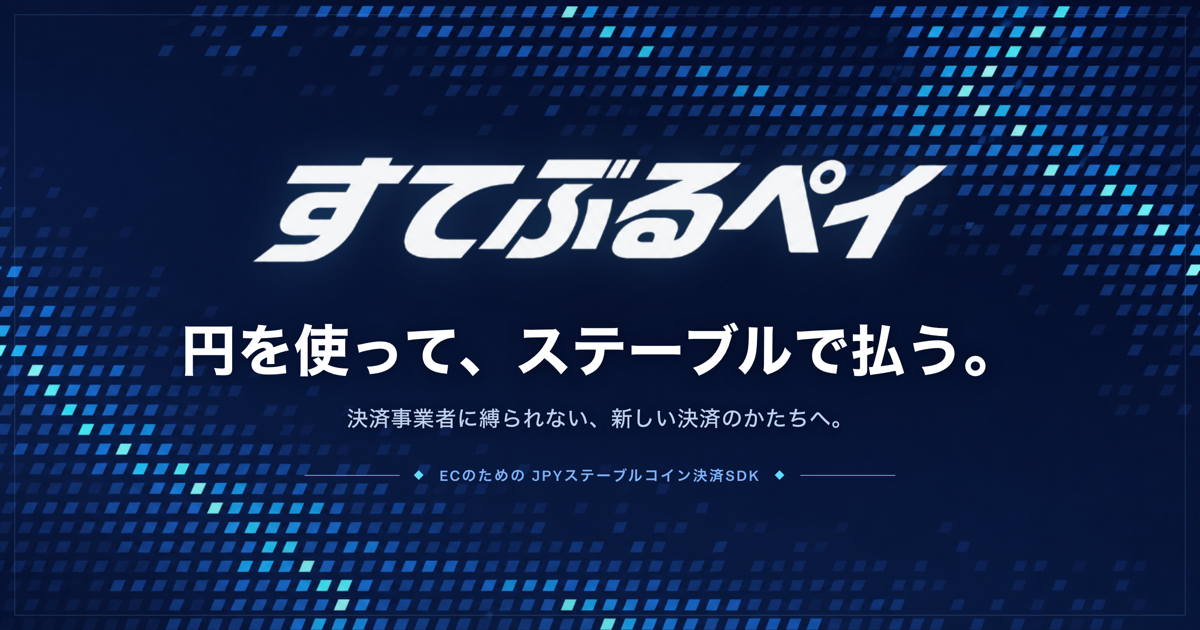
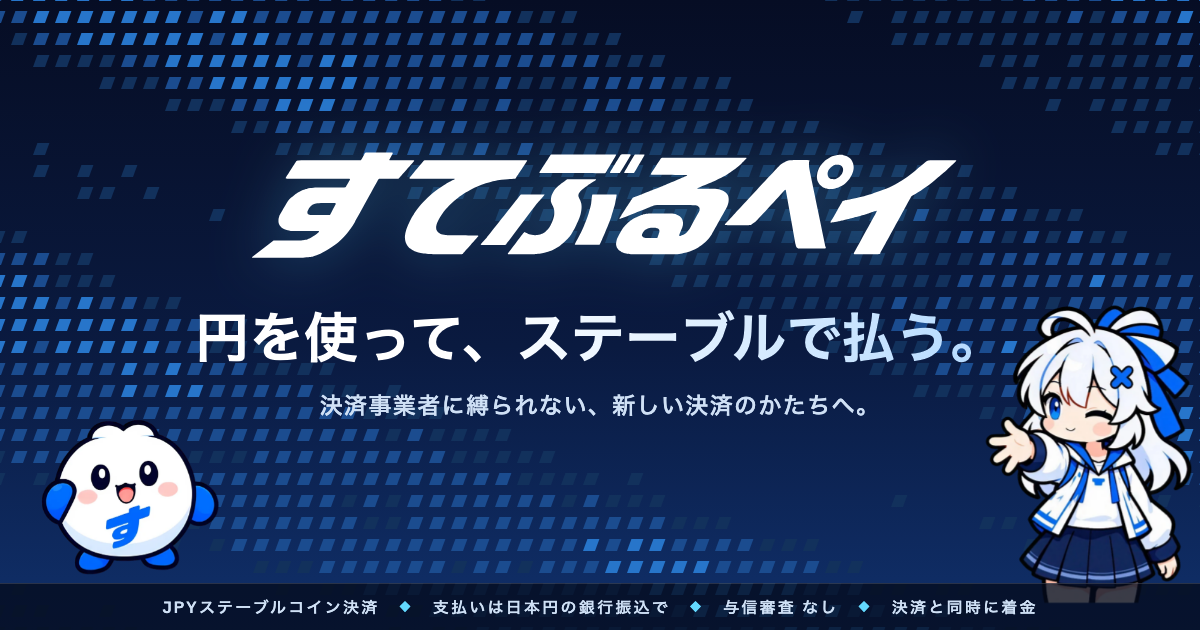
feat: OGP 画像を正のロゴ SVG・すてぶるくん・すてぶるちゃん・ヒーローの模様で作り直し、SDK の文言をなくす
- 元の HTML と素材を scripts/og/ に置き、node scripts/make-og-image.mjs で書き出し直せるようにする
- SNS が前の画像を覚えているので、og:image・twitter:image に ?v=2 を付ける
- どこからも参照していない旧画像 2 枚（SDK の文言入り）を消す

diff --git a/scripts/og/og-image.html b/scripts/og/og-image.html
@@ -1,0 +1,128 @@
+<!doctype html>
+<!--
+  OGP 画像（assets/og-stblpay-generative-1200x630.png）の元。scripts/make-og-image.mjs が 1200×630 で撮る。
+  ブラウザで直接開いても同じ絵が見える。
+  - 背景の模様は LP のヒーロー（assets/lp.js の hero-art）と同じ式を、時刻を止めて 1 枚だけ描く
+  - ロゴは正の SVG（Google Drive の STBLpay_japanese_logo.svg を写したもの）
+  - キャラクターは素材集 stbl-pay-characters の kun/poses/kun_pose_wave と chan/thigh/chan_thigh_reach_wink
+-->
+<html lang="ja">
+<head>
+<meta charset="utf-8" />
+<title>OGP すてぶるペイ</title>
+<style>
+  @font-face {
+    font-family: "Schibsted Grotesk";
+    src: url("../../assets/fonts/schibsted-grotesk-latin-wght.woff2") format("woff2-variations");
+    font-weight: 400 900;
+  }
+  html, body { margin: 0; background: #060d24; }
+  .og {
+    position: relative;
+    width: 1200px;
+    height: 630px;
+    overflow: hidden;
+    background: linear-gradient(180deg, #060d24 0%, #0a1a40 55%, #10306b 100%);
+    font-family: "Schibsted Grotesk", "Hiragino Sans", "Hiragino Kaku Gothic ProN", "Noto Sans JP", sans-serif;
+    color: #fff;
+  }
+  canvas { position: absolute; inset: 0; }
+  .inner {
+    position: absolute;
+    left: 0; right: 0; top: 146px;
+    text-align: center;
+    z-index: 2;
+  }
+  .logo {
+    width: 720px;
+    filter: invert(1) hue-rotate(180deg) brightness(1.12) drop-shadow(0 0 28px rgba(99, 217, 255, 0.28));
+  }
+  h1 {
+    margin: 34px 0 0;
+    font-size: 54px;
+    font-weight: 700;
+    line-height: 1.3;
+    letter-spacing: 0.01em;
+    background: linear-gradient(96deg, #ffffff 40%, #a8d4ff 90%);
+    -webkit-background-clip: text;
+    background-clip: text;
+    -webkit-text-fill-color: transparent;
+  }
+  .sub {
+    margin: 14px 0 0;
+    color: #cfe0f5;
+    font-size: 23px;
+    font-weight: 600;
+    letter-spacing: 0.06em;
+  }
+  .kun, .chan { position: absolute; z-index: 1; }
+  .kun { left: 26px; bottom: 44px; height: 172px; }
+  .chan { right: 6px; bottom: 26px; height: 300px; }
+  .ticker {
+    position: absolute;
+    left: 0; right: 0; bottom: 0;
+    z-index: 3;
+    display: flex;
+    justify-content: center;
+    padding: 11px 0;
+    border-top: 1px solid rgba(255, 255, 255, 0.14);
+    background: rgba(4, 10, 28, 0.78);
+    color: #cfe0f5;
+    font-size: 16px;
+    font-weight: 600;
+    letter-spacing: 0.14em;
+    white-space: nowrap;
+  }
+  .ticker span + span::before {
+    content: "◆";
+    margin: 0 20px;
+    color: #63d9ff;
+    font-size: 11px;
+    vertical-align: 2px;
+  }
+</style>
+</head>
+<body>
+<div class="og" id="og">
+  <canvas id="art" width="1200" height="630"></canvas>
+  <img class="kun" src="kun_pose_wave.webp" alt="" />
+  <img class="chan" src="chan_thigh_reach_wink.webp" alt="" />
+  <div class="inner">
+    <img class="logo" src="logo-suteburu.svg" alt="すてぶるペイ" />
+    <h1>円を使って、ステーブルで払う。</h1>
+    <p class="sub">決済事業者に縛られない、新しい決済のかたちへ。</p>
+  </div>
+  <div class="ticker"><span>JPYステーブルコイン決済</span><span>支払いは日本円の銀行振込で</span><span>与信審査 なし</span><span>決済と同時に着金</span></div>
+</div>
+<script>
+  // assets/lp.js の hero-art と同じ定数・同じ式（バーストとポインターは除く）
+  const W = 1200, H = 630, GRID = 22, CELL_W = 12, CELL_H = 12, SHEAR = 4.4, SLANT = 2.6;
+  const COLORS = ["#12315c", "#1b4c8f", "#2775ca", "#63d9ff"];
+  const T = 3.6; // LP の prefers-reduced-motion と同じ静止フレーム
+  const ctx = document.getElementById("art").getContext("2d");
+  const hash = (c, r) => { const v = Math.sin(c * 127.1 + r * 311.7) * 43758.5453; return v - Math.floor(v); };
+  const cell = new Path2D();
+  cell.moveTo(SHEAR, 0); cell.lineTo(CELL_W + SHEAR, 0); cell.lineTo(CELL_W, CELL_H); cell.lineTo(0, CELL_H); cell.closePath();
+  const cols = Math.ceil(W / GRID) + 2, rows = Math.ceil(H / GRID) + 2;
+  const cx = W * 0.5, cy = H * 0.48, rx = W * 0.4, ry = H * 0.44;
+  for (let r = 0; r < rows; r++) {
+    const y = r * GRID - GRID * 0.5;
+    for (let c = 0; c < cols; c++) {
+      const x = c * GRID - GRID * 0.5;
+      const d = x + (H - y) * SLANT;
+      let v = 0.30 + 0.38 * Math.sin(d * 0.006 + T * 0.9);
+      v += 0.16 * Math.sin(d * 0.016 + T * 1.7);
+      v += 0.10 * Math.sin(T * 1.1 + hash(c, r) * Math.PI * 2);
+      const ex = (x - cx) / rx, ey = (y - cy) / ry, e2 = ex * ex + ey * ey;
+      if (e2 < 1) v *= 0.22 + 0.78 * e2;
+      const q = Math.round(Math.max(0, Math.min(1, v)) * 4);
+      if (q > 0) {
+        ctx.setTransform(1, 0, 0, 1, x, y);
+        ctx.fillStyle = COLORS[q - 1];
+        ctx.fill(cell);
+      }
+    }
+  }
+</script>
+</body>
+</html>

diff --git a/index.html b/index.html
@@ -25,8 +25,8 @@
       content="決済事業者に縛られない、新しい決済のかたちへ。購入者は日本円の銀行振込で、加盟店はカード会社の与信審査に頼らず、ステーブルコインで売上を受け取れます（開発中）。"
     />
     <meta property="og:url" content="https://stbl-pay.com/" />
-    <meta property="og:image" content="https://stbl-pay.com/assets/og-stblpay-generative-1200x630.png" />
-    <meta property="og:image:secure_url" content="https://stbl-pay.com/assets/og-stblpay-generative-1200x630.png" />
+    <meta property="og:image" content="https://stbl-pay.com/assets/og-stblpay-generative-1200x630.png?v=2" />
+    <meta property="og:image:secure_url" content="https://stbl-pay.com/assets/og-stblpay-generative-1200x630.png?v=2" />
     <meta property="og:image:type" content="image/png" />
     <meta property="og:image:width" content="1200" />
     <meta property="og:image:height" content="630" />
@@ -37,7 +37,7 @@
       name="twitter:description"
       content="決済事業者に縛られない、新しい決済のかたちへ。JPYステーブルコイン決済（開発中）。"
     />
-    <meta name="twitter:image" content="https://stbl-pay.com/assets/og-stblpay-generative-1200x630.png" />
+    <meta name="twitter:image" content="https://stbl-pay.com/assets/og-stblpay-generative-1200x630.png?v=2" />
     <meta name="twitter:image:alt" content="すてぶるペイ — 円を使って、ステーブルで払う。" />
     <link rel="alternate" hreflang="ja" href="https://stbl-pay.com/" />
     <link rel="alternate" hreflang="en" href="https://stbl-pay.com/en/" />

diff --git a/en/index.html b/en/index.html
@@ -26,8 +26,8 @@
       content="Toward a new way to pay, not tied to payment processors. Buyers pay by Japanese-yen bank transfer; merchants receive their sales in stablecoin without relying on card companies' credit screening. STBLpay is under development."
     />
     <meta property="og:url" content="https://stbl-pay.com/en/" />
-    <meta property="og:image" content="https://stbl-pay.com/assets/og-stblpay-generative-1200x630.png" />
-    <meta property="og:image:secure_url" content="https://stbl-pay.com/assets/og-stblpay-generative-1200x630.png" />
+    <meta property="og:image" content="https://stbl-pay.com/assets/og-stblpay-generative-1200x630.png?v=2" />
+    <meta property="og:image:secure_url" content="https://stbl-pay.com/assets/og-stblpay-generative-1200x630.png?v=2" />
     <meta property="og:image:type" content="image/png" />
     <meta property="og:image:width" content="1200" />
     <meta property="og:image:height" content="630" />
@@ -38,7 +38,7 @@
       name="twitter:description"
       content="Toward a new way to pay, not tied to payment processors. JPY stablecoin payments (under development)."
     />
-    <meta name="twitter:image" content="https://stbl-pay.com/assets/og-stblpay-generative-1200x630.png" />
+    <meta name="twitter:image" content="https://stbl-pay.com/assets/og-stblpay-generative-1200x630.png?v=2" />
     <meta name="twitter:image:alt" content="STBLpay — Pay in yen. Settle in stablecoin." />
     <link rel="alternate" hreflang="ja" href="https://stbl-pay.com/" />
     <link rel="alternate" hreflang="en" href="https://stbl-pay.com/en/" />
